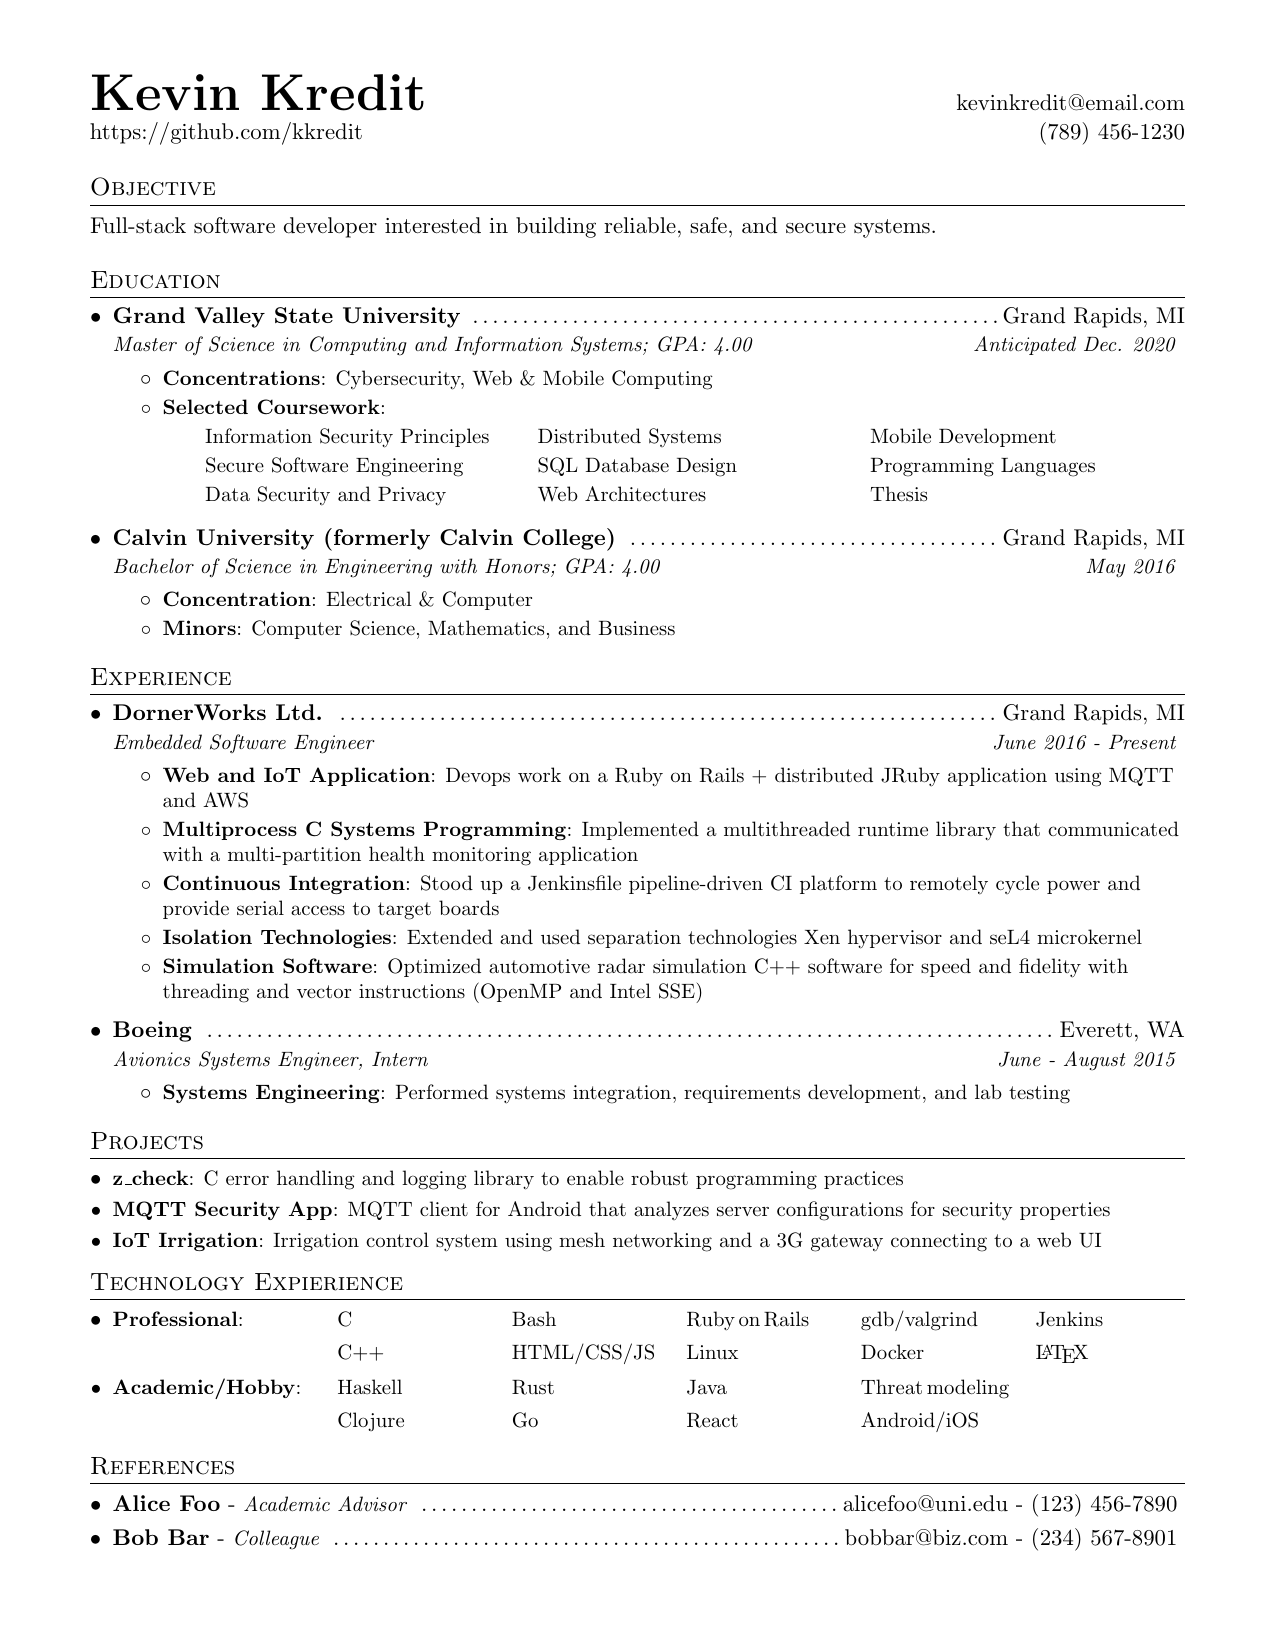
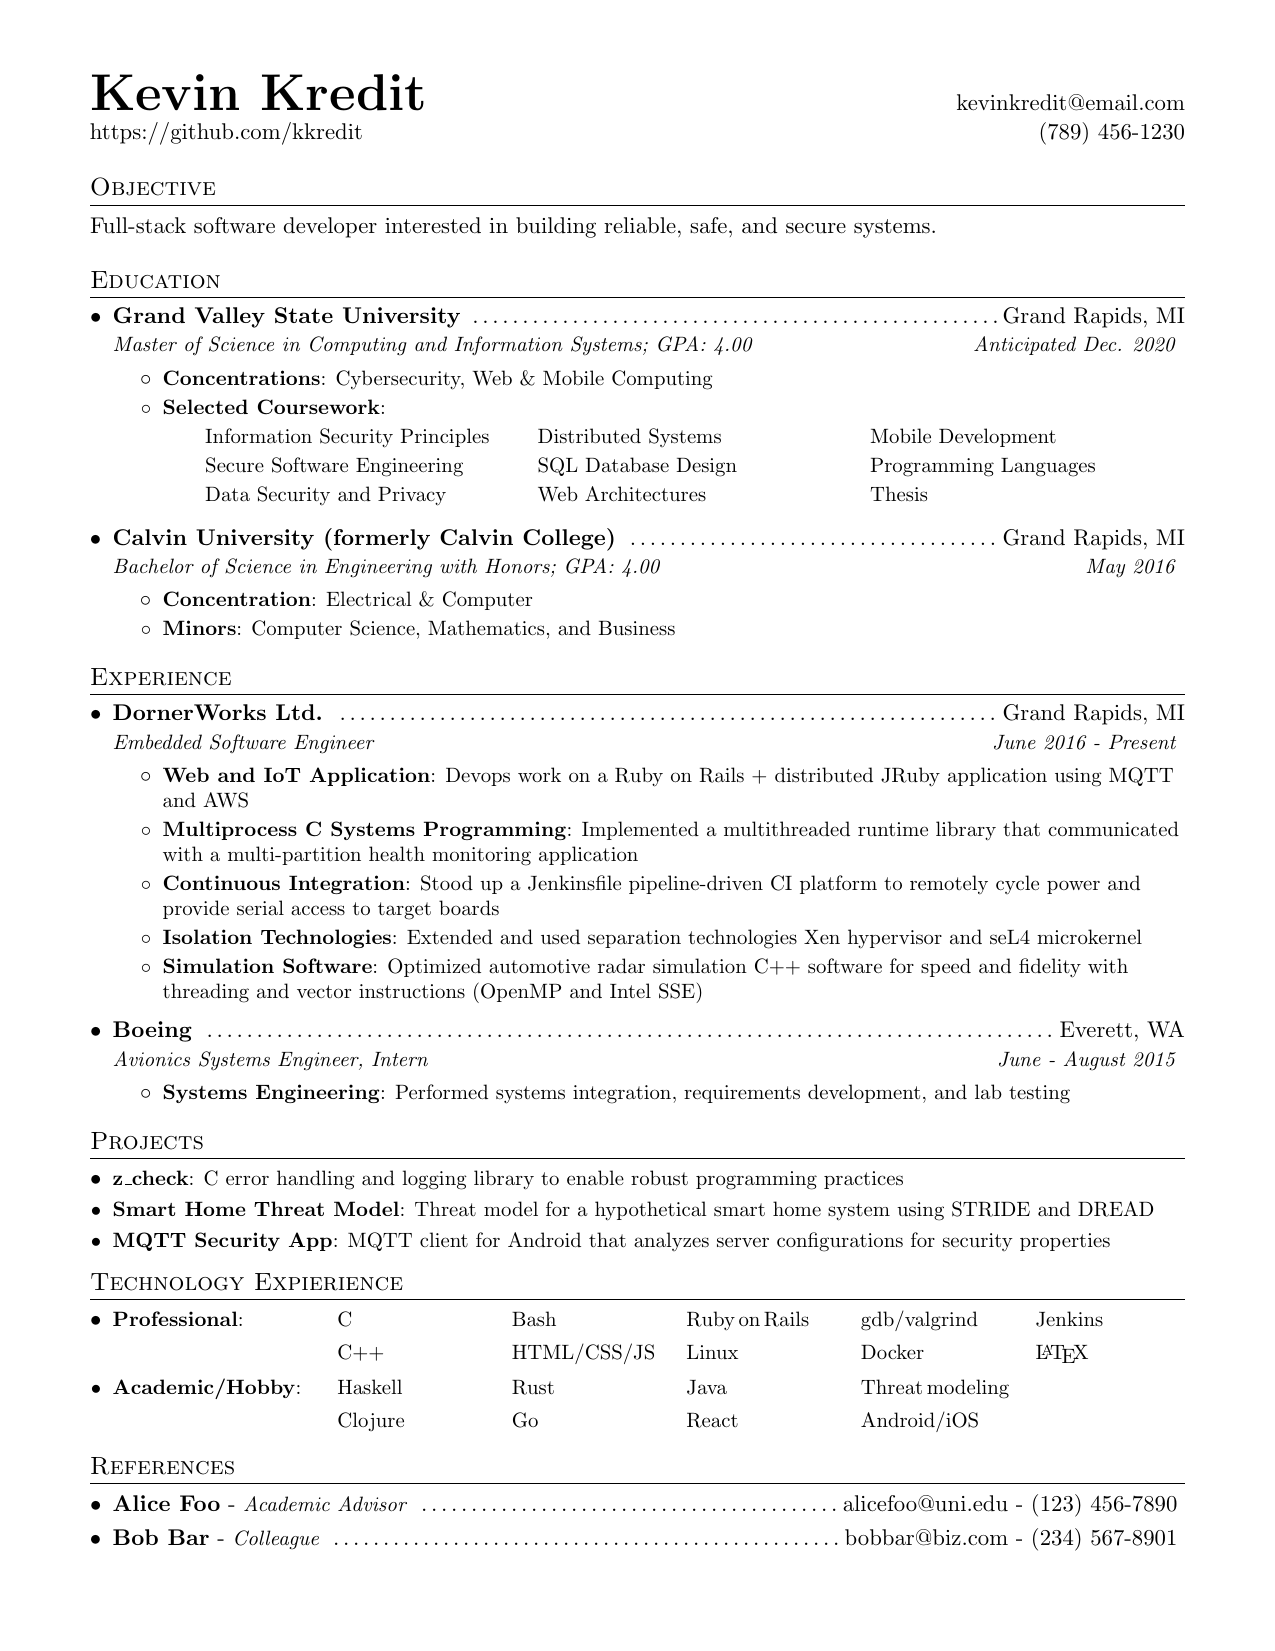
Update projects

Changed region(s): [[0.0918, 0.7105, 0.8871, 0.7723]]

diff --git a/resume.tex b/resume.tex
@@ -204,10 +204,12 @@ Full-stack software developer interested in building reliable, safe, and secure 
   \resumeSubHeadingListStart
     \resumeSubItem{\href{https://github.com/kkredit/z_check}{z\_check}}
       {C error handling and logging library to enable robust programming practices}
+    \resumeSubItem{\href{https://github.com/kkredit/smart-home-threat-model}{Smart Home Threat Model}}
+      {Threat model for a hypothetical smart home system using STRIDE and DREAD}
     \resumeSubItem{\href{https://github.com/kkredit/MQTT-sweeper-android}{MQTT Security App}}
       {MQTT client for Android that analyzes server configurations for security properties}
-    \resumeSubItem{IoT Irrigation}
-      {Irrigation control system using mesh networking and a 3G gateway connecting to a web UI}
+    % \resumeSubItem{IoT Irrigation}
+    %   {Irrigation control system using mesh networking and a 3G gateway connecting to a web UI}
   \resumeSubHeadingListEnd
 
 
